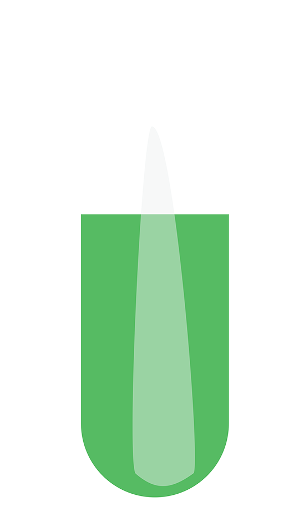
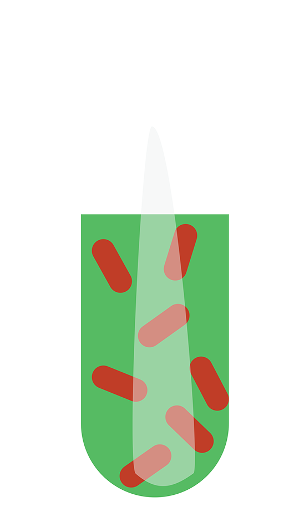
BinGame: Updated microtube textures

diff --git a/app/src/main/java/com/ionis/igem/app/game/BinGame.java b/app/src/main/java/com/ionis/igem/app/game/BinGame.java
@@ -88,7 +88,6 @@ public class BinGame extends BaseGame {
             graphicalAssets.add(new GFXAsset(ResMan.ITEM_GLOVES, 512, 541, 0, 0));
             graphicalAssets.add(new GFXAsset(ResMan.ITEM_GEL, 512, 394, 0, 0));
             graphicalAssets.add(new GFXAsset(ResMan.ITEM_MICROTUBE_GREEN, 284, 512, 0, 0));
-            graphicalAssets.add(new GFXAsset(ResMan.ITEM_MICROTUBE_ORANGE, 284, 512, 0, 0));
             graphicalAssets.add(new GFXAsset(ResMan.ITEM_MICROTUBE_RED, 284, 512, 0, 0));
             graphicalAssets.add(new GFXAsset(ResMan.ITEM_ROUNDFLASK_GREEN, 512, 782, 0, 0));
             graphicalAssets.add(new GFXAsset(ResMan.ITEM_ROUNDFLASK_ORANGE, 512, 782, 0, 0));
@@ -416,14 +415,11 @@ public class BinGame extends BaseGame {
                 textureRegion = activity.getTexture(ResMan.ITEM_ROUNDFLASK_BROKEN);
                 break;
             case MICROTUBE:
-                switch (CalcUtils.randomOf(3)) {
+                switch (CalcUtils.randomOf(2)) {
                     case 0:
                         textureRegion = activity.getTexture(ResMan.ITEM_MICROTUBE_GREEN);
                         break;
                     case 1:
-                        textureRegion = activity.getTexture(ResMan.ITEM_MICROTUBE_ORANGE);
-                        break;
-                    case 2:
                         textureRegion = activity.getTexture(ResMan.ITEM_MICROTUBE_RED);
                         break;
                 }

diff --git a/app/src/main/java/com/ionis/igem/app/game/managers/ResMan.java b/app/src/main/java/com/ionis/igem/app/game/managers/ResMan.java
@@ -44,7 +44,6 @@ public class ResMan {
     public static final String ITEM_ROUNDFLASK_RED = "item_roundflask_red.png";
     public static final String ITEM_ROUNDFLASK_GREEN = "item_roundflask_green.png";
     public static final String ITEM_ROUNDFLASK_BROKEN = "item_roundflask_broken.png";
-    public static final String ITEM_MICROTUBE_ORANGE = "item_microtube_orange.png";
     public static final String ITEM_MICROTUBE_RED = "item_microtube_red.png";
     public static final String ITEM_MICROTUBE_GREEN = "item_microtube_green.png";
 
